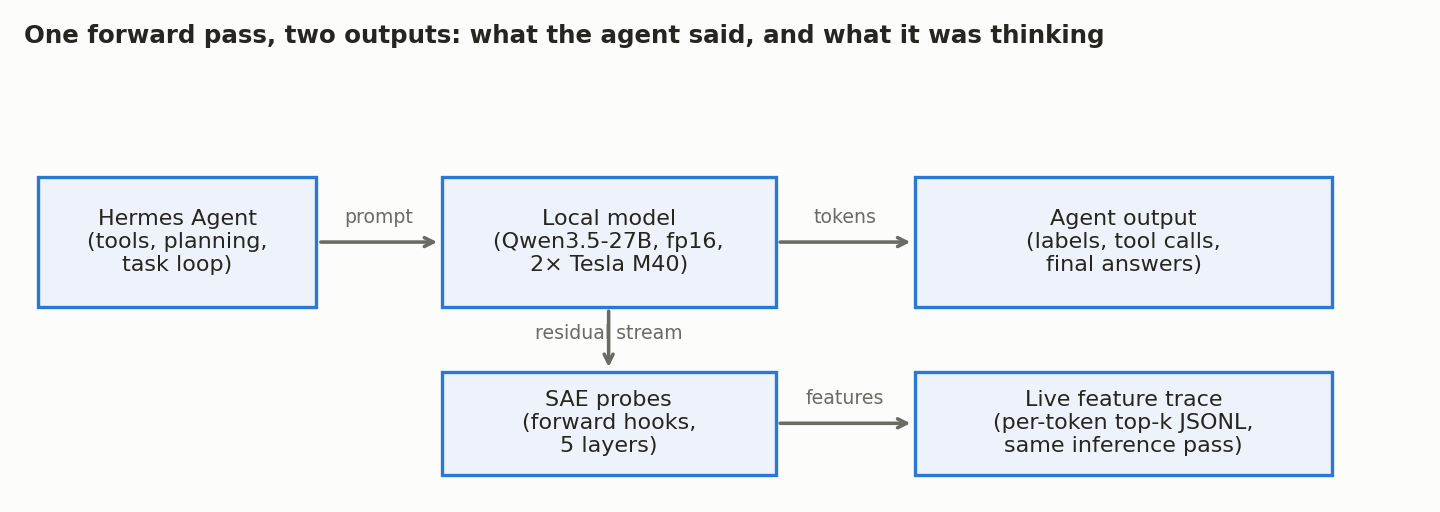
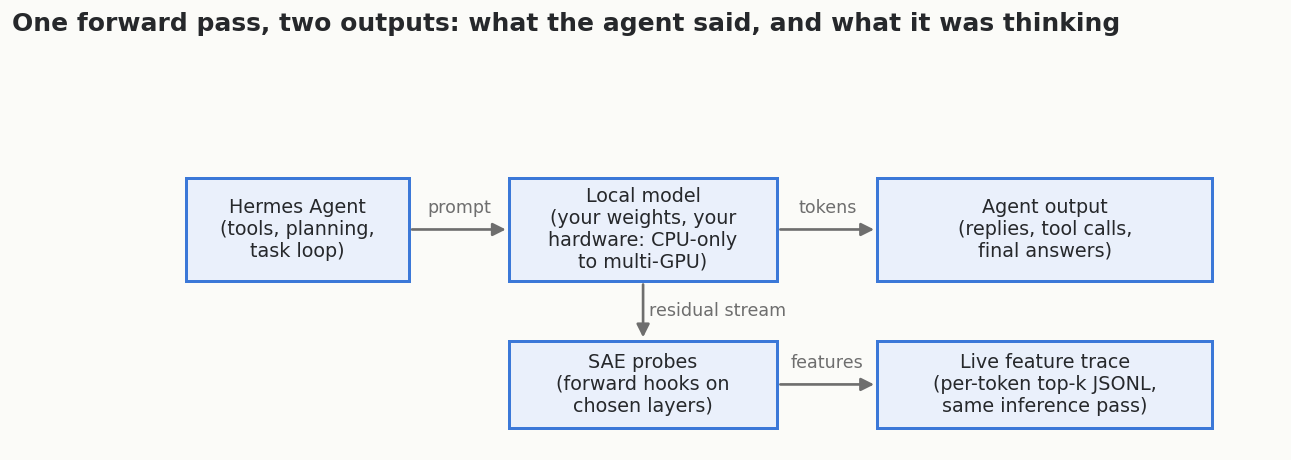
figures: hardware-neutral f2 architecture diagram + reproducible generator
Local-model box no longer names Qwen/M40s; now 'your weights, your
hardware: CPU-only to multi-GPU'. SAE box says 'chosen layers' instead of
the setup-specific 5. make_f2.py added so the figure is regenerable.

Claude-Session: https://claude.ai/code/session_01RHbYsaJabaifbV89LnPZg6

diff --git a/nous/figures/make_f2.py b/nous/figures/make_f2.py
@@ -1,0 +1,83 @@
+"""Regenerate f2_architecture.png (the writeup's architecture diagram).
+
+Usage: python make_f2.py   (writes f2_architecture.png next to itself)
+
+Hardware-neutral by design: the diagram describes the data flow, not any
+particular rig. Run with any matplotlib >= 3.5.
+"""
+from pathlib import Path
+
+import matplotlib
+matplotlib.use("Agg")
+import matplotlib.pyplot as plt
+from matplotlib.patches import FancyArrowPatch, Rectangle
+
+BG = "#fbfbf8"
+BOX_FILL = "#eaf0fb"
+BOX_EDGE = "#3b78d8"
+TEXT = "#26282b"
+ARROW = "#6e6e6e"
+
+BOXES = {
+    # name: (x, y, w, h, label)
+    "agent": (0.02, 0.42, 0.20, 0.26, "Hermes Agent\n(tools, planning,\ntask loop)"),
+    "model": (0.31, 0.42, 0.24, 0.26,
+              "Local model\n(your weights, your\nhardware: CPU-only\nto multi-GPU)"),
+    "output": (0.64, 0.42, 0.30, 0.26,
+               "Agent output\n(replies, tool calls,\nfinal answers)"),
+    "probes": (0.31, 0.05, 0.24, 0.22, "SAE probes\n(forward hooks on\nchosen layers)"),
+    "trace": (0.64, 0.05, 0.30, 0.22,
+              "Live feature trace\n(per-token top-k JSONL,\nsame inference pass)"),
+}
+
+ARROWS = [
+    # (from-box right/bottom, to-box, label, orientation)
+    ("agent", "model", "prompt", "h"),
+    ("model", "output", "tokens", "h"),
+    ("model", "probes", "residual stream", "v"),
+    ("probes", "trace", "features", "h"),
+]
+
+
+def center(name):
+    x, y, w, h, _ = BOXES[name]
+    return x + w / 2, y + h / 2
+
+
+fig, ax = plt.subplots(figsize=(12.0, 4.3), dpi=120)
+fig.patch.set_facecolor(BG)
+ax.set_facecolor(BG)
+ax.set_xlim(0, 1)
+ax.set_ylim(0, 1)
+ax.axis("off")
+
+fig.text(0.02, 0.955,
+         "One forward pass, two outputs: what the agent said, and what it was thinking",
+         fontsize=15, fontweight="bold", color=TEXT, ha="left", va="top",
+         family="DejaVu Sans")
+
+for x, y, w, h, label in BOXES.values():
+    ax.add_patch(Rectangle((x, y), w, h, facecolor=BOX_FILL, edgecolor=BOX_EDGE,
+                           linewidth=1.8))
+    ax.text(x + w / 2, y + h / 2, label, ha="center", va="center",
+            fontsize=11.5, color=TEXT, family="DejaVu Sans")
+
+for src, dst, label, orient in ARROWS:
+    sx, sy, sw, sh, _ = BOXES[src]
+    dx, dy, dw, dh, _ = BOXES[dst]
+    if orient == "h":
+        start = (sx + sw, sy + sh / 2)
+        end = (dx, dy + dh / 2)
+        lx, ly = (start[0] + end[0]) / 2, start[1] + 0.055
+    else:
+        start = (sx + sw / 2, sy)
+        end = (dx + dw / 2, dy + dh)
+        lx, ly = start[0] + 0.005, (start[1] + end[1]) / 2
+    ax.add_patch(FancyArrowPatch(start, end, arrowstyle="-|>", mutation_scale=16,
+                                 linewidth=1.6, color=ARROW, shrinkA=2, shrinkB=2))
+    ax.text(lx, ly, label, ha="center" if orient == "h" else "left",
+            va="center", fontsize=10.5, color=ARROW, family="DejaVu Sans")
+
+out = Path(__file__).parent / "f2_architecture.png"
+fig.savefig(out, bbox_inches="tight", facecolor=BG)
+print(f"wrote {out}")
